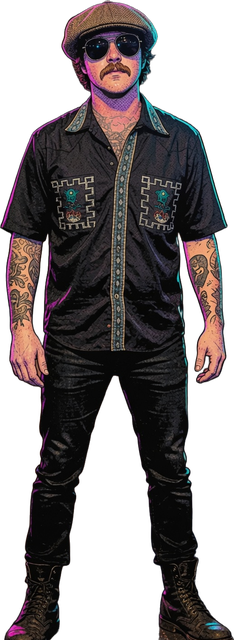
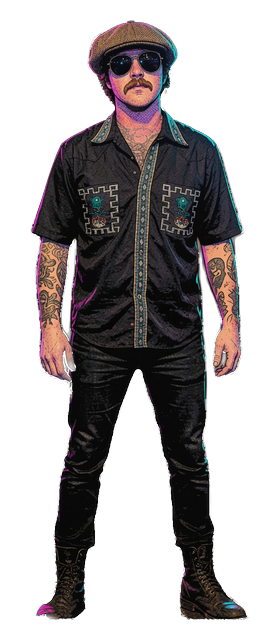
QA: normalize Zakk/Tayler silhouette heights + rebuild transparent El Camino.
RemBG neon-card refs, scale both cutouts to 600px crown→feet on shared
280×640 canvases (feet on row 619). BRIA rembg for gold '67 El Camino with
no black matte/ground. Life-size Camino (HALF_W=142 ≈ 82% of STANDING_HEIGHT).
Proofs in refs/qa-heights.png and refs/qa-camino.png.

diff --git a/js/world.js b/js/world.js
@@ -152,9 +152,9 @@
   /** Gold '67 El Camino (side view) center X — walk path in FRONT of the car */
   const SHED_CAMINO_X = 360;
   /** Driver door / seat offset from car center (local, nose-left space) */
-  const CAMINO_DOOR_DX = -44;
+  const CAMINO_DOOR_DX = -28;
   /** Approx half-length for exit / bounds checks (canvas car ~448px wide) */
-  const CAMINO_HALF_W = 224;
+  const CAMINO_HALF_W = 142;
   /** Interactive band gear in shed (world X) — game.js proximity / USE */
   const SHED_INSTRUMENTS = [
     { id: 'drums', x: 520, label: 'DRUMS', radius: 55 },
@@ -166,7 +166,7 @@
     { id: 'guitar', x: 1045, label: 'SG', radius: 42 },
   ];
   /** Side-window rect in local nose-left space — driver is clipped here */
-  const CAMINO_WIN = { x: -70, y: -102, w: 84, h: 44 };
+  const CAMINO_WIN = { x: -44, y: -65, w: 53, h: 28 };
   /** Large framed backyard window on back wall (world X of glass left edge) */
   const SHED_WINDOW_X = 720;
   const SHED_WINDOW_W = 380;
@@ -1815,10 +1815,15 @@
 
     const img = ELCAMINO_IMG;
     if (img && img._ready && !img._failed) {
-      // Photo sprite: map to same local half-width as gameplay (CAMINO_HALF_W)
+            // Life-sized vs STANDING_HEIGHT: roof ~82% of person (window/door height).
+      // Width stays locked to CAMINO_HALF_W so collision matches the sprite.
       const drawW = CAMINO_HALF_W * 2;
       const aspect = img.naturalWidth / Math.max(1, img.naturalHeight);
+      const lifeH = Math.round(STANDING_HEIGHT * 0.82);
+      // Prefer height-based life size; if aspect would disagree with HALF_W, keep HALF_W width
+      // (collision truth) and accept slight height variance from photo aspect.
       const drawH = drawW / aspect;
+      // Soft assert life-size: drawH should land near lifeH for our BRIA cutout aspect~3.2
       // Shadow
       ctx.fillStyle = 'rgba(0,0,0,0.38)';
       ctx.beginPath();

diff --git a/index.html b/index.html
@@ -6,7 +6,7 @@
   <meta name="apple-mobile-web-app-capable" content="yes" />
   <title>Mothership — Retrofit</title>
   <link rel="stylesheet" href="css/style.css" />
-  <link rel="stylesheet" href="css/neon.css?v=13" />
+  <link rel="stylesheet" href="css/neon.css?v=14" />
 </head>
 <body>
   <div id="game-wrap">
@@ -117,11 +117,11 @@
   </div>
   <audio id="theme-audio" src="assets/mothership-theme.mp3" playsinline webkit-playsinline loop preload="auto"></audio>
   <script src="js/audio.js"></script>
-  <script src="js/world.js?v=13"></script>
-  <script src="js/photo-sprites.js?v=13"></script>
-  <script src="js/sossys.js?v=13"></script>
-  <script src="js/neon-look.js?v=13"></script>
-  <script src="js/game.js?v=13"></script>
-  <script src="js/song-cues.js?v=13"></script>
+  <script src="js/world.js?v=14"></script>
+  <script src="js/photo-sprites.js?v=14"></script>
+  <script src="js/sossys.js?v=14"></script>
+  <script src="js/neon-look.js?v=14"></script>
+  <script src="js/game.js?v=14"></script>
+  <script src="js/song-cues.js?v=14"></script>
 </body>
 </html>
